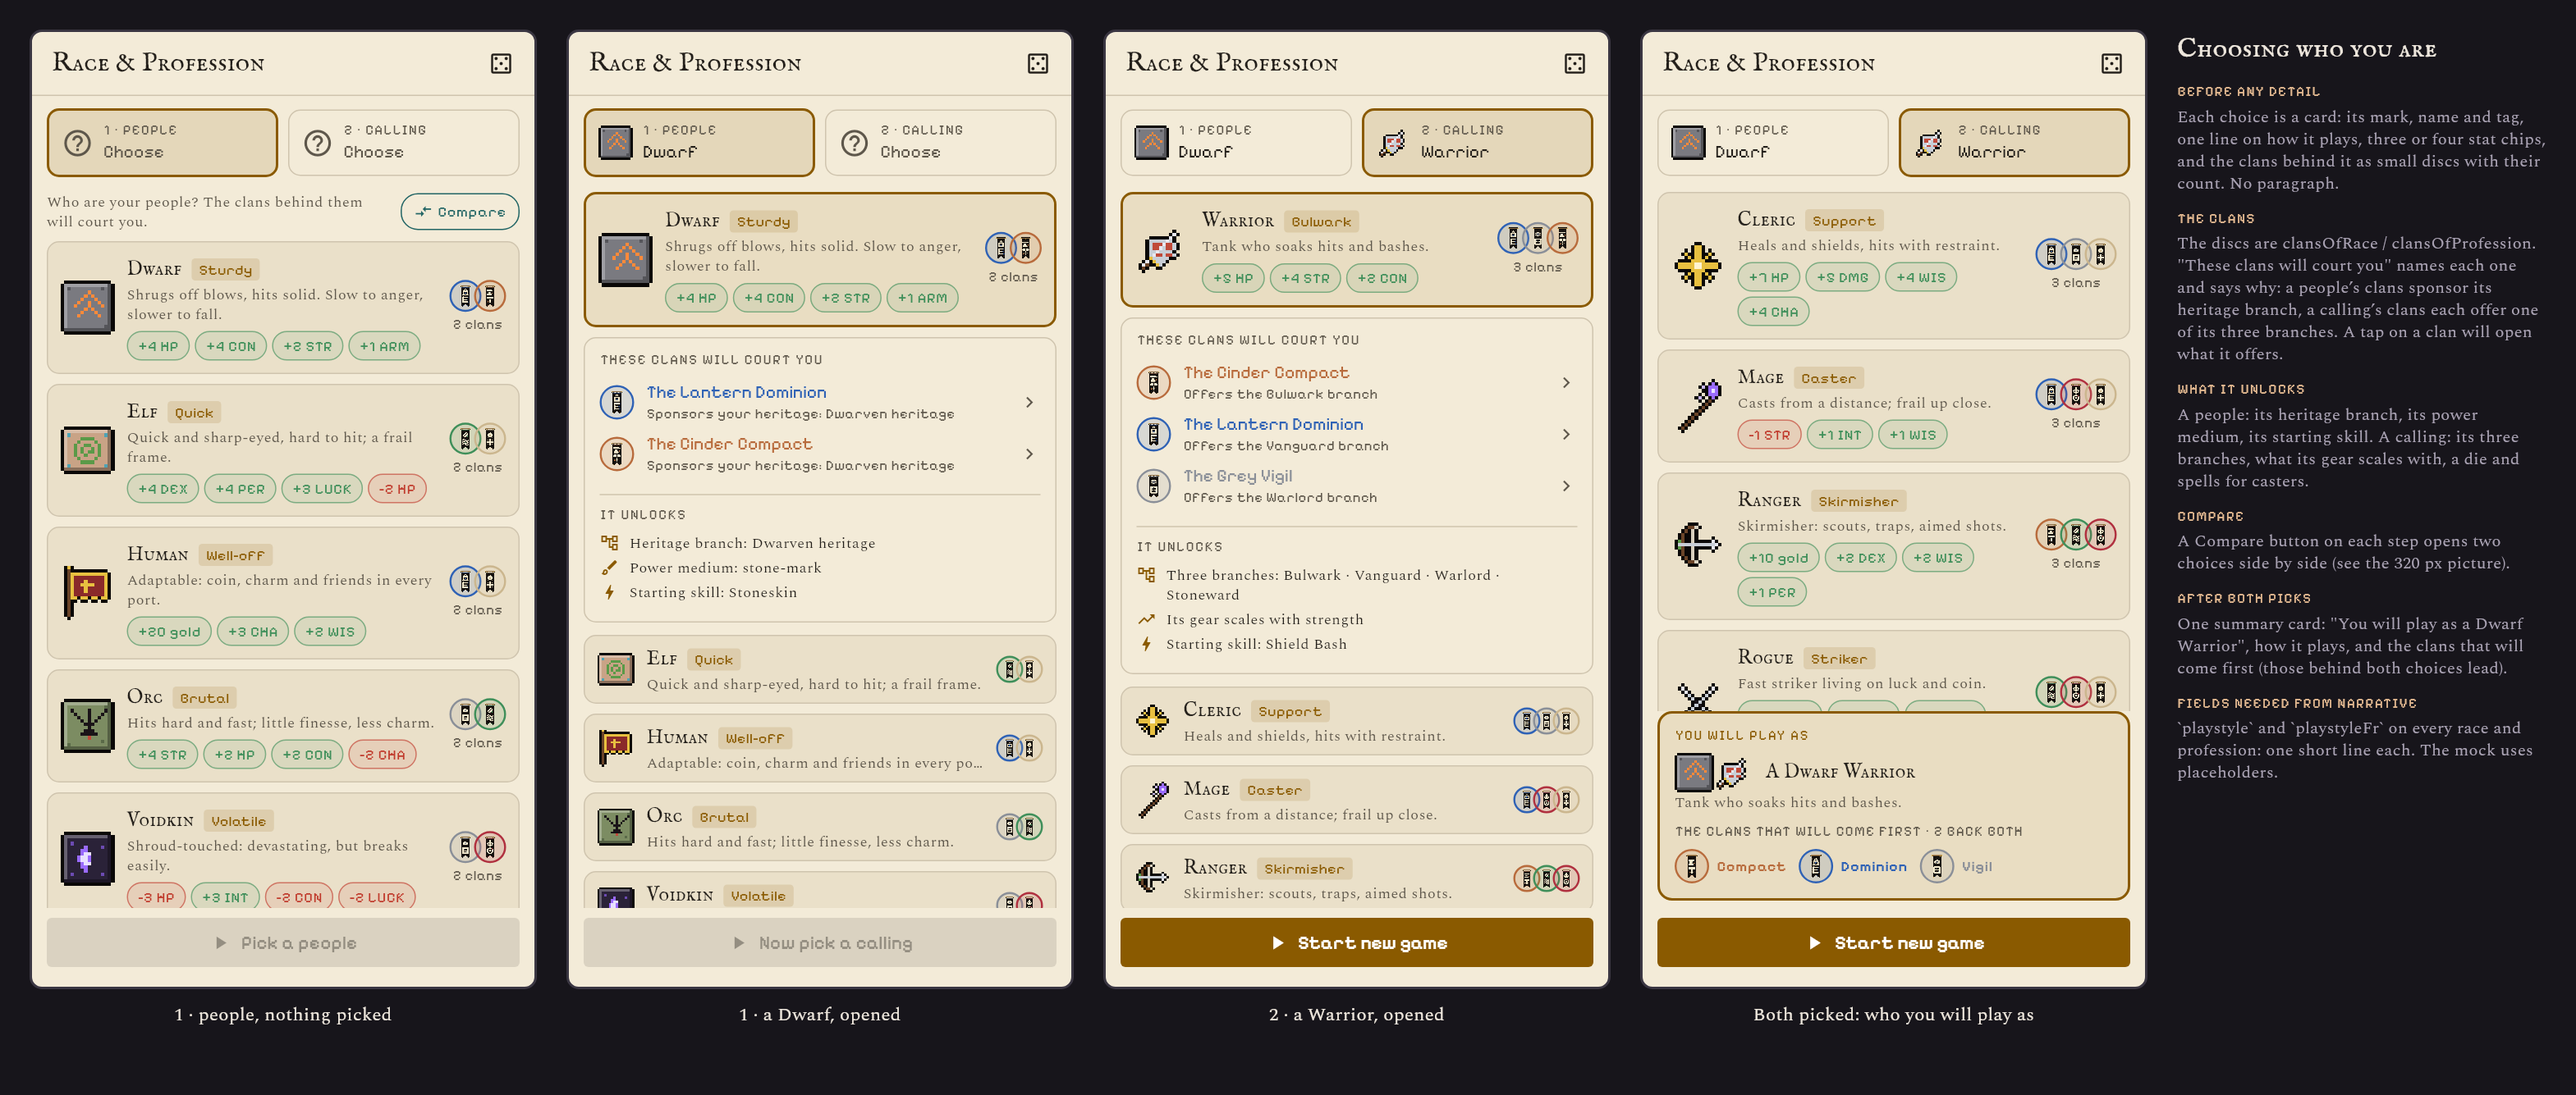
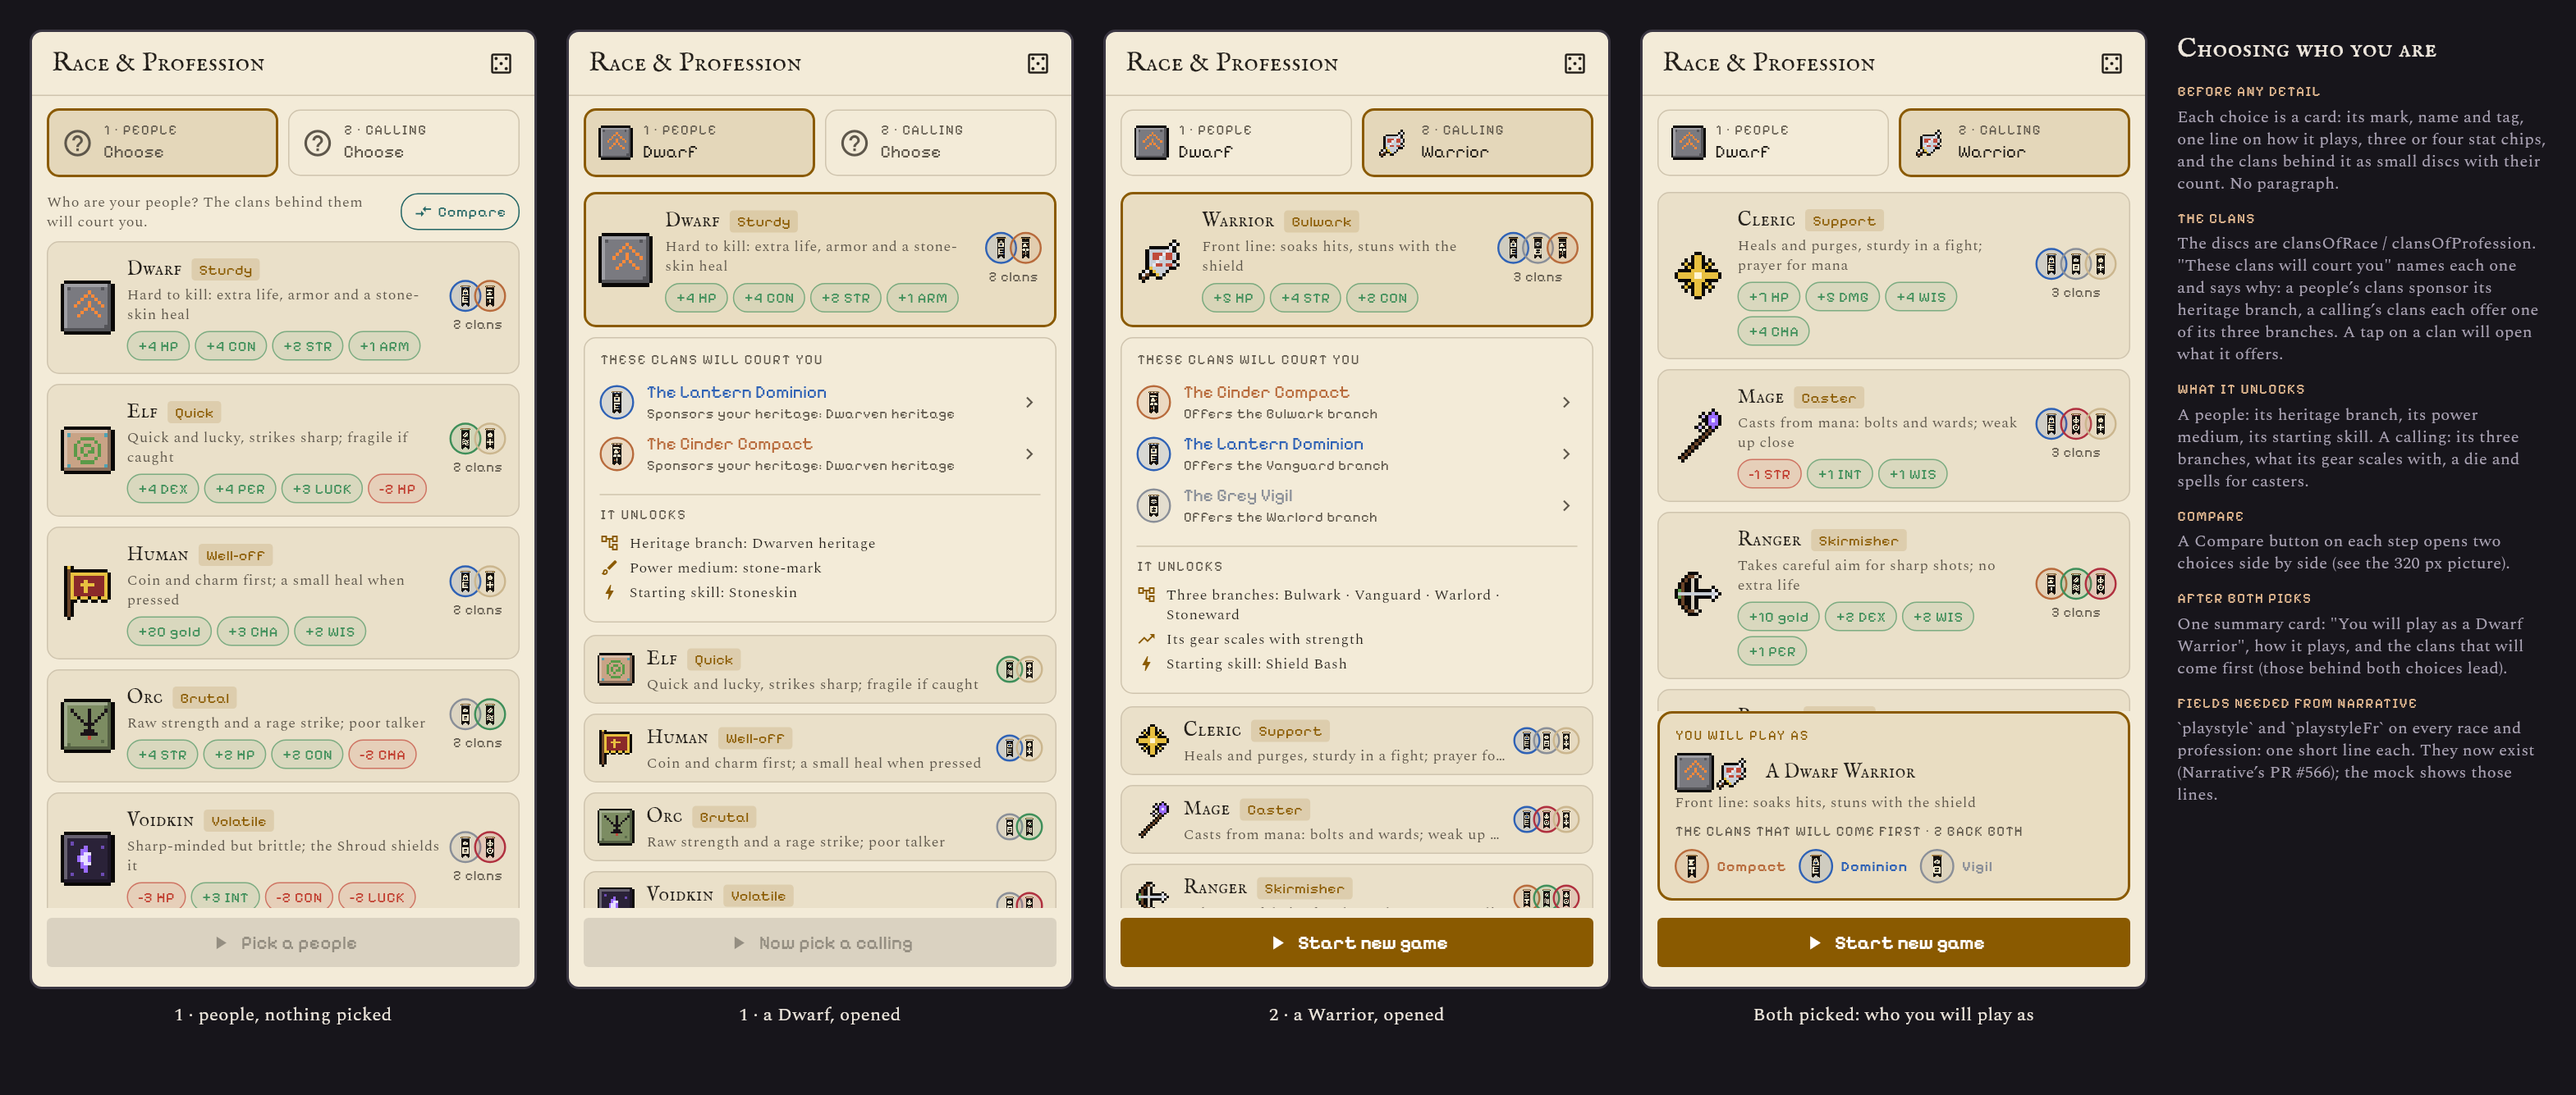
UX: the race and profession mock shows Narrative's real playstyle lines
Claude-Session: https://claude.ai/code/session_01Y8cU3zPWWudNpnZGCrkKEc

diff --git a/test/ux_race_mock_parts.dart b/test/ux_race_mock_parts.dart
@@ -18,20 +18,24 @@ import 'package:narrative_data_app/screens/race_profession_screen.dart';
 import 'package:narrative_data_app/theme/stitched_ink.dart';
 import 'package:narrative_data_app/widgets/pixel_banner.dart';
 
-/// PLACEHOLDERS for the one-line way of playing (Narrative's wording; the
-/// field is `playstyle` / `playstyleFr` on races.json and professions.json).
+/// Narrative's `playstyle` lines (v1.598, PR #566), kept here until that
+/// field is on main; the cards read the record's own `playstyle` first.
 const Map<String, String> wayOfPlaying = {
-  'dwarf': 'Shrugs off blows, hits solid. Slow to anger, slower to fall.',
-  'elf': 'Quick and sharp-eyed, hard to hit; a frail frame.',
-  'human': 'Adaptable: coin, charm and friends in every port.',
-  'orc': 'Hits hard and fast; little finesse, less charm.',
-  'voidkin': 'Shroud-touched: devastating, but breaks easily.',
-  'warrior': 'Tank who soaks hits and bashes.',
-  'mage': 'Casts from a distance; frail up close.',
-  'rogue': 'Fast striker living on luck and coin.',
-  'cleric': 'Heals and shields, hits with restraint.',
-  'ranger': 'Skirmisher: scouts, traps, aimed shots.',
+  'dwarf': 'Hard to kill: extra life, armor and a stone-skin heal',
+  'elf': 'Quick and lucky, strikes sharp; fragile if caught',
+  'human': 'Coin and charm first; a small heal when pressed',
+  'orc': 'Raw strength and a rage strike; poor talker',
+  'voidkin': 'Sharp-minded but brittle; the Shroud shields it',
+  'warrior': 'Front line: soaks hits, stuns with the shield',
+  'mage': 'Casts from mana: bolts and wards; weak up close',
+  'rogue': 'Fast and lucky: a backstab that weakens the foe',
+  'cleric': 'Heals and purges, sturdy in a fight; prayer for mana',
+  'ranger': 'Takes careful aim for sharp shots; no extra life',
 };
+
+/// The one line on how [id] plays: the record's own, else the line above.
+String playstyleOf(Map<String, dynamic> record, String id) =>
+    record['playstyle']?.toString() ?? wayOfPlaying[id] ?? '';
 
 const List<(String, String)> _bonusFields = [
   ('bonusMaxHealth', 'HP'),
@@ -314,7 +318,7 @@ class ChoiceCard extends StatelessWidget {
                 const SizedBox(width: 8),
                 if (tag.isNotEmpty) InkTag(label: tag, color: ink.gold),
               ]),
-              Text(wayOfPlaying[id] ?? '',
+              Text(playstyleOf(record, id),
                   maxLines: compact ? 1 : 2,
                   overflow: TextOverflow.ellipsis,
                   style: theme.textTheme.bodySmall?.copyWith(color: ink.ash)),
@@ -737,7 +741,7 @@ class SummaryCard extends StatelessWidget {
                       ?.copyWith(fontFamily: InkFonts.display)),
             ),
           ]),
-          Text(wayOfPlaying[professionId] ?? '',
+          Text(playstyleOf(profession, professionId),
               style: theme.textTheme.bodySmall?.copyWith(color: ink.ash)),
           const SizedBox(height: 8),
           Text(
@@ -794,7 +798,7 @@ class CompareSheet extends StatelessWidget {
                 child: InkTag(
                     label: record['tag']?.toString() ?? '', color: ink.gold)),
             const SizedBox(height: 8),
-            Text(wayOfPlaying[id] ?? '',
+            Text(playstyleOf(record, id),
                 style: theme.textTheme.bodySmall?.copyWith(color: ink.ash)),
             const SizedBox(height: 8),
             Wrap(spacing: 4, runSpacing: 4, children: [

diff --git a/test/ux_race_mock_test.dart b/test/ux_race_mock_test.dart
@@ -250,7 +250,7 @@ void main() {
         ),
         (
           'Fields needed from Narrative',
-          '`playstyle` and `playstyleFr` on every race and profession: one short line each. The mock uses placeholders.'
+          '`playstyle` and `playstyleFr` on every race and profession: one short line each. They now exist (Narrative\u2019s PR #566); the mock shows those lines.'
         ),
       ]),
     );

diff --git a/docs/proposals/race-profession-choice.md b/docs/proposals/race-profession-choice.md
@@ -39,9 +39,9 @@ card now says what matters in words.
   Start new game.
 
 ## What it needs
-- **Narrative:** one short line of how each choice plays, on every race and profession:
-  `playstyle` and `playstyleFr` (races.json, professions.json). The mock uses placeholders written by
-  UX ("Tank who soaks hits and bashes", "Casts from a distance; frail up close").
+- **Narrative:** done: `playstyle` / `playstyle_fr` on every race and profession (PR #566, v1.598,
+  at most 60 characters). The mock shows those real lines ("Front line: soaks hits, stuns with the
+  shield"); the cards read the record's own `playstyle`.
 - **Core:** nothing. Everything else is already data: `clansOfRace` / `clansOfProfession`
   (clan_affinity.dart), `tag`, `powerMedium`, `standardSkillID`, `preferredScalingStat`,
   `startingSpellIds`, the skill trees and each faction's `sponsors`. "Come first" is a UX ordering (a
